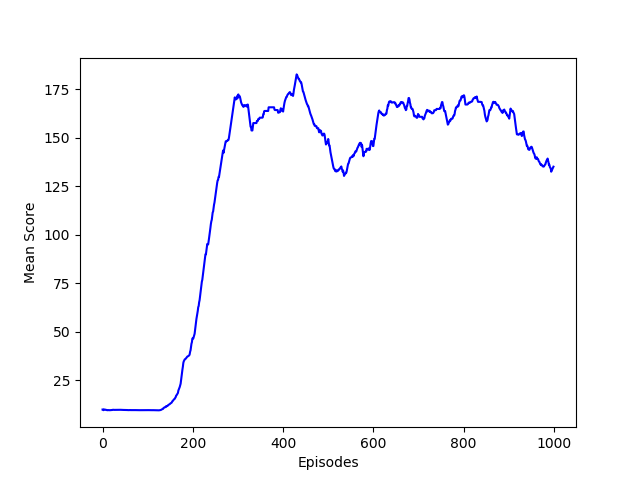
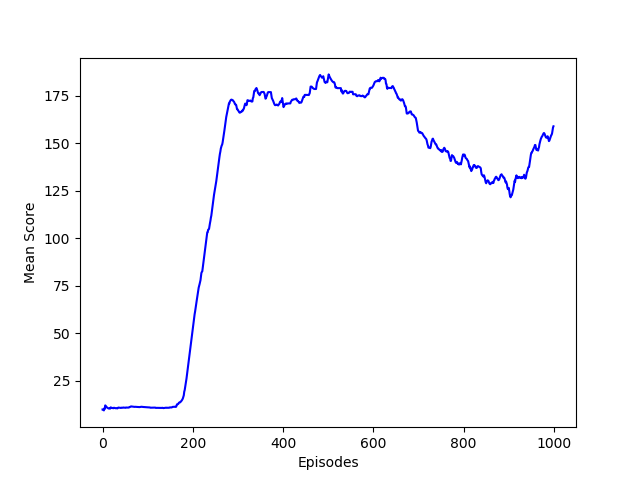
Fixed

diff --git a/Lab2/cartpole/cartpole_dqn_dani.py b/Lab2/cartpole/cartpole_dqn_dani.py
@@ -56,8 +56,11 @@ class DQNAgent:
         #Tip: Consult https://keras.io/getting-started/sequential-model-guide/
     def build_model(self):
         model = Sequential()
-        model.add(Dense(26, input_dim=self.state_size, activation='relu',
+        model.add(Dense(16, input_dim=self.state_size, activation='relu',
                         kernel_initializer='he_uniform'))
+        model.add(Dense(10, activation='linear',
+                        kernel_initializer='he_uniform'))
+
         model.add(Dense(self.action_size, activation='linear',
                         kernel_initializer='he_uniform'))
         model.summary()
@@ -81,7 +84,7 @@ class DQNAgent:
         if np.random.binomial(1, self.epsilon) == 1:
             action = random.randrange(self.action_size)
         else:
-            action = np.argmax(self.target_model.predict(state)[0])
+            action = np.argmax(self.model.predict(state)[0])
 
         return action
 ###############################################################################
@@ -225,4 +228,4 @@ if __name__ == "__main__":
     pylab.plot(episodes, mean_scores, 'b')
     pylab.xlabel("Episodes")
     pylab.ylabel("Mean Score")
-    pylab.savefig("mean_score_26_neurons.png")
+    pylab.savefig("mean_score_initial_2 .png")
